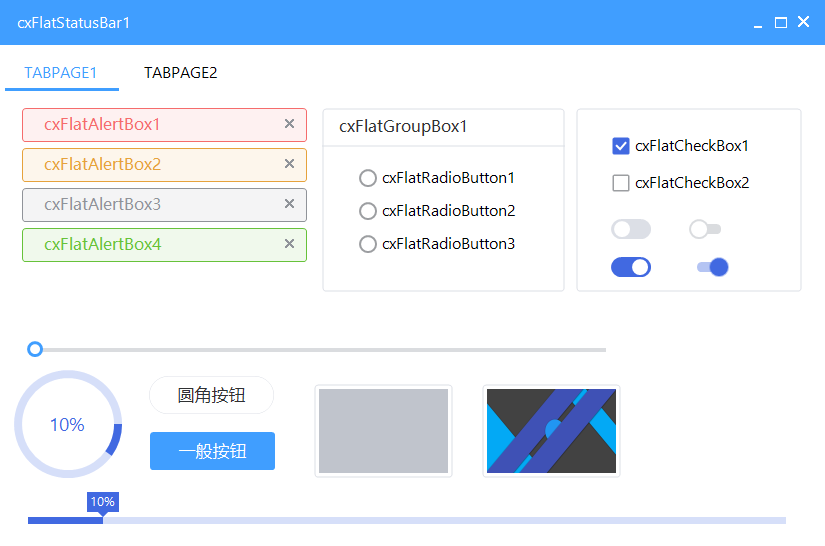
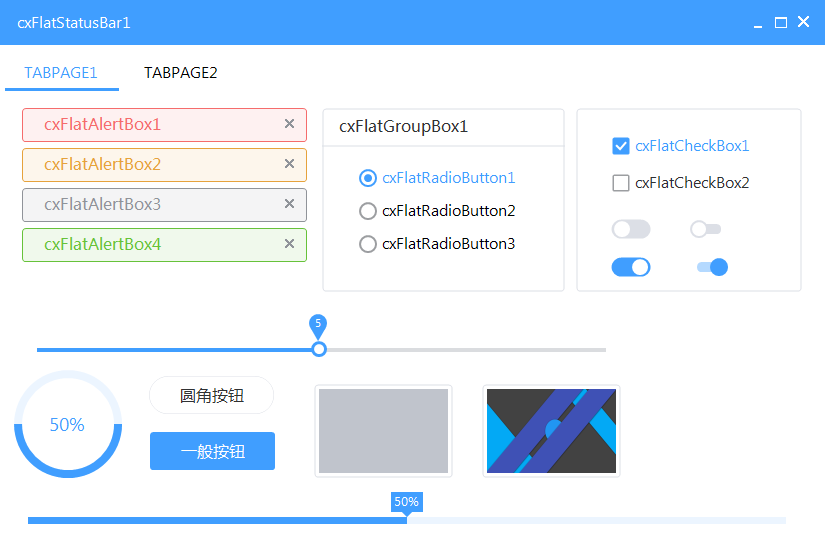
更改CheckBox、ProgressBar等控件的默认颜色

diff --git a/CxFlatDemo/Form1.Designer.cs b/CxFlatDemo/Form1.Designer.cs
@@ -216,7 +216,6 @@ namespace CxFlatDemo
             this.cxFlatSwitch2.Size = new System.Drawing.Size(40, 20);
             this.cxFlatSwitch2.TabIndex = 4;
             this.cxFlatSwitch2.Text = "cxFlatSwitch2";
-            this.cxFlatSwitch2.ThemeColor = System.Drawing.Color.RoyalBlue;
             this.cxFlatSwitch2.UseVisualStyleBackColor = true;
             // 
             // cxFlatToggle1
@@ -229,13 +228,11 @@ namespace CxFlatDemo
             this.cxFlatToggle1.Size = new System.Drawing.Size(48, 20);
             this.cxFlatToggle1.TabIndex = 10;
             this.cxFlatToggle1.Text = "cxFlatToggle1";
-            this.cxFlatToggle1.ThemeColor = System.Drawing.Color.RoyalBlue;
             this.cxFlatToggle1.UseVisualStyleBackColor = true;
             // 
             // cxFlatCheckBox2
             // 
             this.cxFlatCheckBox2.AutoSize = true;
-            this.cxFlatCheckBox2.CheckedColor = System.Drawing.Color.Blue;
             this.cxFlatCheckBox2.Font = new System.Drawing.Font("Segoe UI", 12F);
             this.cxFlatCheckBox2.Location = new System.Drawing.Point(35, 65);
             this.cxFlatCheckBox2.Name = "cxFlatCheckBox2";
@@ -254,14 +251,12 @@ namespace CxFlatDemo
             this.cxFlatSwitch1.Size = new System.Drawing.Size(40, 20);
             this.cxFlatSwitch1.TabIndex = 17;
             this.cxFlatSwitch1.Text = "cxFlatSwitch1";
-            this.cxFlatSwitch1.ThemeColor = System.Drawing.Color.RoyalBlue;
             this.cxFlatSwitch1.UseVisualStyleBackColor = true;
             // 
             // cxFlatCheckBox1
             // 
             this.cxFlatCheckBox1.AutoSize = true;
             this.cxFlatCheckBox1.Checked = true;
-            this.cxFlatCheckBox1.CheckedColor = System.Drawing.Color.RoyalBlue;
             this.cxFlatCheckBox1.CheckState = System.Windows.Forms.CheckState.Checked;
             this.cxFlatCheckBox1.Font = new System.Drawing.Font("Segoe UI", 12F);
             this.cxFlatCheckBox1.Location = new System.Drawing.Point(35, 28);
@@ -279,7 +274,6 @@ namespace CxFlatDemo
             this.cxFlatToggle2.Size = new System.Drawing.Size(48, 20);
             this.cxFlatToggle2.TabIndex = 10;
             this.cxFlatToggle2.Text = "cxFlatToggle2";
-            this.cxFlatToggle2.ThemeColor = System.Drawing.Color.RoyalBlue;
             this.cxFlatToggle2.UseVisualStyleBackColor = true;
             this.cxFlatToggle2.CheckStateChanged += new System.EventHandler(this.button1_Click);
             // 
@@ -397,8 +391,6 @@ namespace CxFlatDemo
             this.cxFlatProgressBar1.ShowTip = true;
             this.cxFlatProgressBar1.Size = new System.Drawing.Size(790, 32);
             this.cxFlatProgressBar1.TabIndex = 6;
-            this.cxFlatProgressBar1.Text = "cxFlatProgressBar1";
-            this.cxFlatProgressBar1.ThemeColor = System.Drawing.Color.RoyalBlue;
             this.cxFlatProgressBar1.ValueNumber = 0;
             // 
             // cxFlatRoundProgressBar1
@@ -410,7 +402,6 @@ namespace CxFlatDemo
             this.cxFlatRoundProgressBar1.Size = new System.Drawing.Size(108, 108);
             this.cxFlatRoundProgressBar1.TabIndex = 7;
             this.cxFlatRoundProgressBar1.Text = "cxFlatRoundProgressBar1";
-            this.cxFlatRoundProgressBar1.ThemeColor = System.Drawing.Color.RoyalBlue;
             this.cxFlatRoundProgressBar1.ValueNumber = 0;
             // 
             // tabPage2

diff --git a/CxFlatUI/CxFlatProgressBar.cs b/CxFlatUI/CxFlatProgressBar.cs
@@ -32,18 +32,6 @@ namespace CxFlatUI
             }
         }
 
-        private Color _themeColor = Color.Blue;
-        public Color ThemeColor
-        {
-            get { return _themeColor; }
-            set
-            {
-                _themeColor = value;
-                Invalidate();
-            }
-        }
-
-
         #region 事件
         protected override void OnResize(EventArgs e)
         {
@@ -68,7 +56,7 @@ namespace CxFlatUI
             {
                 var x = _valueNumber * (Width - 32) / 100 + 16f;
                 var y = 25;
-                graphics.FillPolygon(new SolidBrush(Color.FromArgb(255, _themeColor)), new PointF[]
+                graphics.FillPolygon(new SolidBrush( ThemeColors.PrimaryColor), new PointF[]
                 {
             new PointF(x,y),new PointF(x+5,y-5),new PointF(x+16,y-5),new PointF(x+16,y-25),new PointF(x-16,y-25),new PointF(x-16,y-5),new PointF(x-5,y-5)
                 });
@@ -78,13 +66,13 @@ namespace CxFlatUI
                     LineAlignment = StringAlignment.Center
                 });
 
-                graphics.FillRectangle(new SolidBrush(Color.FromArgb(55, _themeColor)), new RectangleF(16, 25, Width - 32, Height - 25));
-                graphics.FillRectangle(new SolidBrush(_themeColor), new RectangleF(16, 25, x - 16, Height - 25));
+                graphics.FillRectangle(new SolidBrush(Color.FromArgb(25, ThemeColors.PrimaryColor)), new RectangleF(16, 25, Width - 32, Height - 25));
+                graphics.FillRectangle(new SolidBrush(ThemeColors.PrimaryColor), new RectangleF(16, 25, x - 16, Height - 25));
             }
             else
             {
-                graphics.FillRectangle(new SolidBrush(Color.FromArgb(55, _themeColor)), new RectangleF(0, 0, Width, Height));
-                graphics.FillRectangle(new SolidBrush(_themeColor), new RectangleF(0, 0, _valueNumber * Width / 100, Height));
+                graphics.FillRectangle(new SolidBrush(Color.FromArgb(25, ThemeColors.PrimaryColor)), new RectangleF(0, 0, Width, Height));
+                graphics.FillRectangle(new SolidBrush(ThemeColors.PrimaryColor), new RectangleF(0, 0, _valueNumber * Width / 100, Height));
             }
         }
 

diff --git a/CxFlatUI/CxFlatRoundProgressBar.cs b/CxFlatUI/CxFlatRoundProgressBar.cs
@@ -30,17 +30,6 @@ namespace CxFlatUI
             }
         }
 
-        private Color _themeColor = Color.Blue;
-        public Color ThemeColor
-        {
-            get { return _themeColor; }
-            set
-            {
-                _themeColor = value;
-                Invalidate();
-            }
-        }
-
         private float _roundWidth = 10;
         public float RoundWidth
         {
@@ -68,11 +57,11 @@ namespace CxFlatUI
             graphics.Clear(Color.White);
             
             //绘制扇形
-            graphics.FillEllipse(new SolidBrush(Color.FromArgb(55, _themeColor)), new RectangleF(0, 0, Width, Height));
-            graphics.FillPie(new SolidBrush(_themeColor), new Rectangle(0, 0, Width, Width), 0, _valueNumber * 3.6f);
+            graphics.FillEllipse(new SolidBrush(Color.FromArgb(25, ThemeColors.PrimaryColor)), new RectangleF(0, 0, Width, Height));
+            graphics.FillPie(new SolidBrush(ThemeColors.PrimaryColor), new Rectangle(0, 0, Width, Width), 0, _valueNumber * 3.6f);
             //绘制文字
             graphics.FillEllipse(new SolidBrush(Color.White), new RectangleF(_roundWidth, _roundWidth, Width - _roundWidth * 2, Width - _roundWidth * 2));
-            graphics.DrawString(_valueNumber.ToString() + "%", Font, new SolidBrush(_themeColor), new RectangleF(_roundWidth, _roundWidth, Width - _roundWidth * 2, Width - _roundWidth * 2), new StringFormat
+            graphics.DrawString(_valueNumber.ToString() + "%", Font, new SolidBrush(ThemeColors.PrimaryColor), new RectangleF(_roundWidth, _roundWidth, Width - (_roundWidth * 2), Width - (_roundWidth * 2)), new StringFormat
             {
                 Alignment = StringAlignment.Center,
                 LineAlignment = StringAlignment.Center

diff --git a/CxFlatUI/CxFlatSwitch.cs b/CxFlatUI/CxFlatSwitch.cs
@@ -22,16 +22,6 @@ namespace CxFlatUI
         #endregion
 
         #region  属性
-        private Color _themeColor = Color.RoyalBlue;
-        public Color ThemeColor
-        {
-            get { return _themeColor; }
-            set
-            {
-                _themeColor = value;
-                Invalidate();
-            }
-        }
         #endregion
 
         #region 事件
@@ -56,18 +46,19 @@ namespace CxFlatUI
             graphics.SmoothingMode = SmoothingMode.AntiAlias;
             graphics.PixelOffsetMode = PixelOffsetMode.HighQuality;
             graphics.TextRenderingHint = TextRenderingHint.ClearTypeGridFit;
+            graphics.InterpolationMode = InterpolationMode.High;
             graphics.Clear(Color.White);
             //
             //背景形状
             //
             var backRect = new GraphicsPath();
-            backRect.AddArc(new RectangleF(0, 0, Height, Height), 90, 180);
-            backRect.AddArc(new RectangleF(Width - Height, 0, Height, Height), 270, 180);
+            backRect.AddArc(new RectangleF(0.5f, 0.5f, Height-1, Height-1), 90, 180);
+            backRect.AddArc(new RectangleF(Width - Height+0.5f, 0.5f, Height-1, Height-1), 270, 180);
             backRect.CloseAllFigures();
             //
             //背景
             //
-            graphics.FillPath(new SolidBrush(Checked ? _themeColor : ThemeColors.OneLevelBorder), backRect);
+            graphics.FillPath(new SolidBrush(Checked ? ThemeColors.PrimaryColor : ThemeColors.OneLevelBorder), backRect);
             //
             //圆形
             //

diff --git a/CxFlatUI/CxFlatCheckBox.cs b/CxFlatUI/CxFlatCheckBox.cs
@@ -28,16 +28,6 @@ namespace CxFlatUI
         #endregion
 
         #region 属性
-        private Color _checkedColor = Color.Blue;
-        public Color CheckedColor
-        {
-            get { return _checkedColor; }
-            set
-            {
-                _checkedColor = value;
-                Invalidate();
-            }
-        }
         #endregion
 
         #region 事件
@@ -79,7 +69,7 @@ namespace CxFlatUI
             var checkmarkPath = DrawHelper.CreateRoundRect(2, 2, 16, 16, 1);
             var checkMarkLine = new Rectangle(3, 3, 14, 14);
 
-            EnabledCheckedColor = _checkedColor;
+            EnabledCheckedColor = ThemeColors.PrimaryColor;
             SolidBrush BG = new SolidBrush(Enabled ? (Checked || enterFlag ? EnabledCheckedColor : EnabledUnCheckedColor) : DisabledColor);
             Pen Pen = new Pen(BG.Color);
 
@@ -94,7 +84,7 @@ namespace CxFlatUI
             graphics.FillRectangle(new SolidBrush(Color.White), PointAnimationNum, PointAnimationNum, SizeAnimationNum, SizeAnimationNum);
 
             //绘制文字
-            graphics.DrawString(Text, Font, new SolidBrush(Color.Black), new RectangleF(22, 0, Width - 22, Height), new StringFormat
+            graphics.DrawString(Text, Font, new SolidBrush(Checked?ThemeColors.PrimaryColor:ThemeColors.MainText), new RectangleF(22, 0, Width - 22, Height), new StringFormat
             {
                 LineAlignment = StringAlignment.Center
             });

diff --git a/CxFlatUI/CxFlatToggle.cs b/CxFlatUI/CxFlatToggle.cs
@@ -22,16 +22,6 @@ namespace CxFlatUI
         #endregion
 
         #region  属性
-        private Color _themeColor = Color.RoyalBlue;
-        public Color ThemeColor
-        {
-            get { return _themeColor; }
-            set
-            {
-                _themeColor = value;
-                Invalidate();
-            }
-        }
         #endregion
 
         #region 事件
@@ -70,12 +60,12 @@ namespace CxFlatUI
             //
             //背景
             //
-            graphics.FillPath(new SolidBrush(Checked ? Color.FromArgb(100, _themeColor) : DrawHelper.BackColor), roundRectangle);
+            graphics.FillPath(new SolidBrush(Checked ? Color.FromArgb(100, ThemeColors.PrimaryColor) : ThemeColors.OneLevelBorder), roundRectangle);
             //
             //圆形
             //
-            graphics.FillEllipse(new SolidBrush(Checked ? _themeColor : Color.White), new RectangleF(PointAnimationNum, 1, 18, 18));
-            graphics.DrawEllipse(new Pen(Checked ? Color.FromArgb(100, _themeColor) : DrawHelper.BackColor, 2), new RectangleF(PointAnimationNum, 1, 18, 18));
+            graphics.FillEllipse(new SolidBrush(Checked ? ThemeColors.PrimaryColor: ThemeColors.OneLevelBorder), new RectangleF(PointAnimationNum, 1, 18, 18));
+            graphics.FillEllipse(new SolidBrush(Checked ? ThemeColors.PrimaryColor : Color.White), new RectangleF(PointAnimationNum+2, 3, 14, 14));
         }
 
         public CxFlatToggle()
